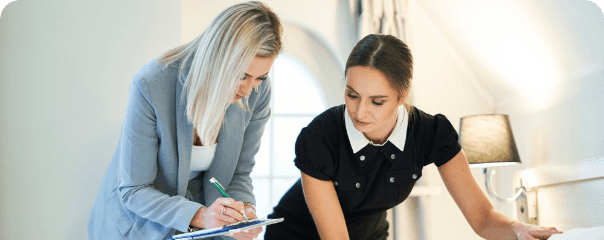
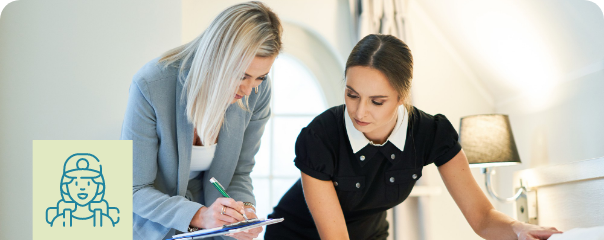
Ajustes de maqueta

Changed region(s): [[0.0298, 0.5833, 0.2384, 1.0]]

diff --git a/src/views/Tema1.vue b/src/views/Tema1.vue
@@ -21,7 +21,7 @@
         figure
           img.mb-4.mb-lg-0(src="@/assets/curso/tema1/2.png", alt="" data-aos="zoom-in-down")
       .col-lg-6
-        .p-4.bg-acento-contenido-a5.rounded-4.mb-3
+        .p-4.bg-acento-contenido-a5.rounded-4
           p.mb-0 La configuración del departamento sigue una estructura piramidal que asegura la supervisión y el control de calidad. La autoridad fluye desde la ama de llaves ejecutiva hacia los niveles operativos. Esta jerarquía no debe entenderse como una división rígida, sino como una cadena de responsabilidades donde la comunicación asertiva es el eje transversal.
       
     .row.justify-content-center.align-items-center.z-2.mb-5.bg-secundario-s1.pt-3.rounded-4
@@ -112,7 +112,7 @@
         figure
           img(data-aos="fade-down-right", src="@/assets/curso/tema1/10.png", alt="")
 
-    TabsB.color-primario
+    TabsB.color-primario.tabs-b-icom-mod
       .py-4.py-md-5(titulo="Supervisión de ama de llaves" :icono="require('@/assets/curso/tema1/11.svg')")
         .row.justify-content-center.align-items-center
           .col-lg-7.mb-4.mb-lg-0
@@ -195,7 +195,7 @@
         p La gestión del ama de llaves se divide en procesos de organización, supervisión y coordinación interdepartamental.
         p.mb-0 Matriz de misiones y funciones del ama de llaves
 
-    TabsB.color-primario
+    TabsB.color-primario.tabs-b-icom-mod
       .py-4.py-md-5(titulo="Talento humano" :icono="require('@/assets/curso/tema1/23.svg')")
         .row.justify-content-center.align-items-center
           .col-lg-7.mb-4.mb-lg-0
@@ -287,7 +287,7 @@
       h2 1.5 Supervisión técnica y control de calidad
 
     .row.g-0.rounded-4.bg-acento-botones-a5.mb-5.justify-content-center
-      .col-sm-6.col-lg-3.d-flex
+      .col-sm-6.col-lg-3.d-flex.align-items-center
         figure.m-0
           img(src="@/assets/curso/tema1/36.png", alt="alt text" data-aos="zoom-in-down")
       .col-lg-9.p-4.p-xl-0

diff --git a/src/views/Tema4.vue b/src/views/Tema4.vue
@@ -304,7 +304,7 @@
       h5.mb-0 Gestión de riesgo biológico y fluidos corporales
 
     .row.g-0.rounded-4.bg-acento-botones-a5.mb-5.justify-content-center
-      .col-sm-6.col-lg-3.d-flex
+      .col-sm-6.col-lg-3.d-flex.align-items-center
         figure.m-0
           img(src="@/assets/curso/tema4/18.png", alt="alt text" data-aos="zoom-in-down")
       .col-lg-9.p-4.p-xl-0
@@ -401,18 +401,18 @@
       p.mb-0 Antes de iniciar la jornada de tendido y limpieza, el talento humano debe preparar sus articulaciones.
 
     .row.justify-content-center.align-items-stretch.mb-5
-      .col-sm-6.col-lg-4.col-xl-3.mb-4.mb-lg-0
+      .col-sm-6.col-lg-5.col-xl-3.mb-4.mb-xl-0
         figure
           img(src="@/assets/curso/tema4/27.png", alt="" data-aos="fade-down-right")
-      .col-sm-6.col-lg-4.col-xl-3.mb-4.mb-lg-0
+      .col-sm-6.col-lg-5.col-xl-3.mb-4.mb-xl-0
         .p-4.rounded-4.bg-img.bg-img--3.h-100
           h5.text-center Activación de muñecas
           p.mb-0.text-center Realizar círculos suaves con las muñecas en ambos sentidos y estiramientos de flexores y extensores. Esto previene el síndrome del túnel carpiano.
-      .col-sm-6.col-lg-4.col-xl-3.mb-4.mb-lg-0
+      .col-sm-6.col-lg-5.col-xl-3.mb-4.mb-sm-0
         .p-4.rounded-4.bg-img.bg-img--3.h-100
           h5.text-center Movilidad de hombros
           p.mb-0.text-center Elevación y descenso de hombros, y rotaciones hacia atrás para liberar la tensión acumulada en el trapecio.
-      .col-sm-6.col-lg-4.col-xl-3
+      .col-sm-6.col-lg-5.col-xl-3
         .p-4.rounded-4.bg-img.bg-img--3.h-100
           h5.text-center Desbloqueo de cadera
           p.mb-0.text-center Realizar movimientos circulares con la pelvis para lubricar la articulación coxofemoral antes de las flexiones repetitivas.

diff --git a/src/views/Tema6.vue b/src/views/Tema6.vue
@@ -73,7 +73,7 @@
       h2 6.2	Especificaciones técnicas de la lencería de cama
 
     .row.g-0.rounded-4.bg-acento-botones-a5.mb-5.justify-content-center
-      .col-sm-6.col-lg-3.d-flex
+      .col-sm-6.col-lg-3.d-flex.align-items-center
         figure.m-0
           img(src="@/assets/curso/tema6/2.png", alt="alt text" data-aos="zoom-in-down")
       .col-lg-9.p-4.p-xl-0
@@ -149,14 +149,14 @@
       p.mb-0.text-center Además de las sábanas, el coordinador debe supervisar que los complementos mantengan la misma proporción:
 
     .row.justify-content-center.align-items-stretch.mb-5
-      .col-sm-6.col-lg-4.mb-4.mb-xl-0
+      .col-sm-6.col-lg-4.mb-4.mb-lg-0
         .tarjeta.bg-img.bg-img--3.p-4.py-5.h-100
           .row.justify-content-center.mb-3
             .col-6
               img.w-90.mb-4(src='@/assets/curso/tema6/4.svg' alt='')
           h5.text-center Protector de colchón: 
           p.text-center.mb-4 Debe ser de la medida exacta del colchón (ej. 160 x 190 para Queen) y contar con un faldón elástico de al menos 30 cm para abrazar toda la estructura.
-      .col-sm-6.col-lg-4.mb-4.mb-xl-0
+      .col-sm-6.col-lg-4.mb-4.mb-lg-0
         .tarjeta.bg-img.bg-img--3.p-4.py-5.h-100
           .row.justify-content-center.mb-3
             .col-6

diff --git a/src/views/Tema2.vue b/src/views/Tema2.vue
@@ -74,7 +74,7 @@
       h2 2.2 Estados de la habitación (status)
 
     .row.g-0.rounded-4.bg-acento-contenido-a5.mb-5.justify-content-center
-      .col-sm-6.col-lg-3.d-flex
+      .col-sm-6.col-lg-3.d-flex.align-items-center
         figure.m-0
           img(src="@/assets/curso/tema2/8.png", alt="alt text" data-aos="zoom-in-down")
       .col-lg-9.p-4.p-xl-0

diff --git a/src/views/Tema3.vue b/src/views/Tema3.vue
@@ -93,7 +93,7 @@
       h2 3.3 Clasificación de las rutinas de aseo
 
     .row.g-0.rounded-4.bg-acento-contenido-a5.mb-5.justify-content-center
-      .col-sm-6.col-lg-3.d-flex
+      .col-sm-6.col-lg-3.d-flex.align-items-center
         figure.m-0
           img(src="@/assets/curso/tema3/6.png", alt="" data-aos="zoom-in-down")
       .col-lg-9.p-4.p-xl-0

diff --git a/src/styles/_custom.sass b/src/styles/_custom.sass
@@ -382,3 +382,9 @@ ul.checklist
       background-color: #FFCE73
       div
         color: textColor(#FFCE73)
+
+.tabs-b__tab__icon
+  width: 70px
+.tabs-b-icom-mod
+  .tabs-b__tab__icon
+    width: 80px
